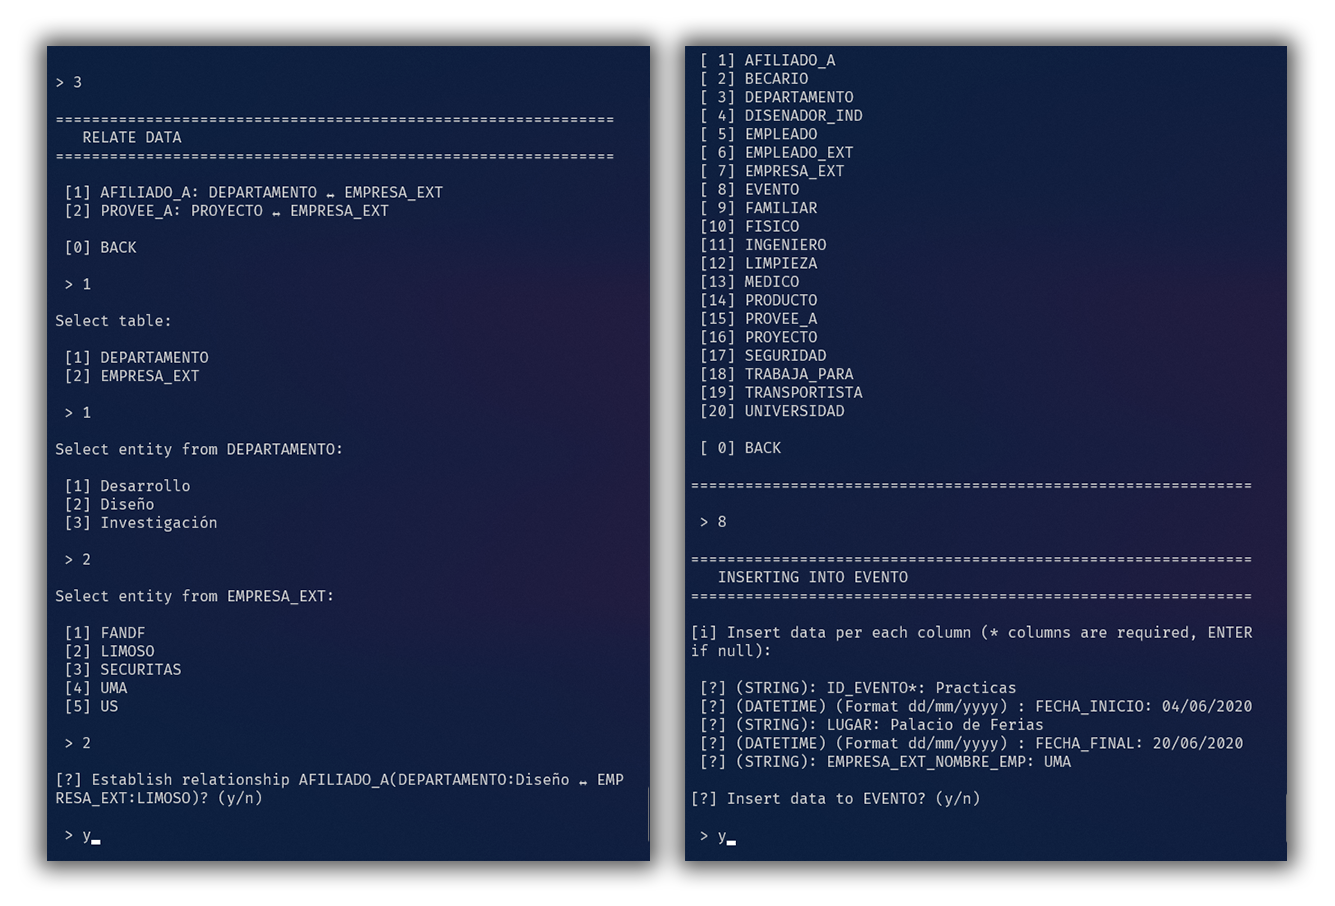
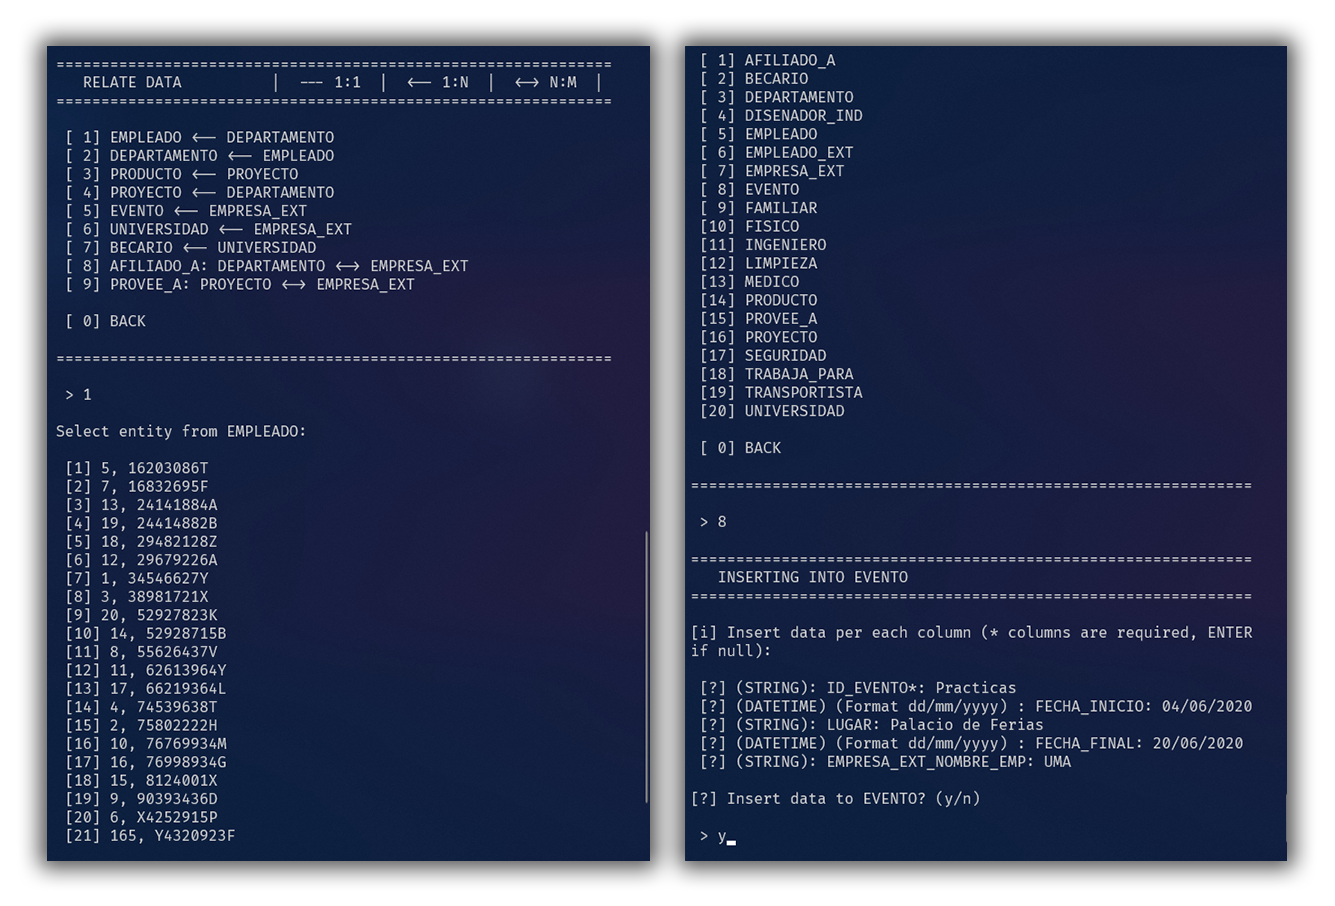
updated image of CLI

Changed region(s): [[0.0307, 0.0618, 0.4607, 0.4327], [0.0307, 0.4636, 0.4914, 0.9272]]

diff --git a/README.md b/README.md
@@ -48,7 +48,7 @@ The program also allows to perform customized queries from the menu:
 
 ![demo1](images/demo1.png)
 
-Relate and insert data functionalities:
+Relate (1:1, 1:N and N:M relationships) and insert data functionalities:
 
 ![demo2](images/demo2.png)
 
